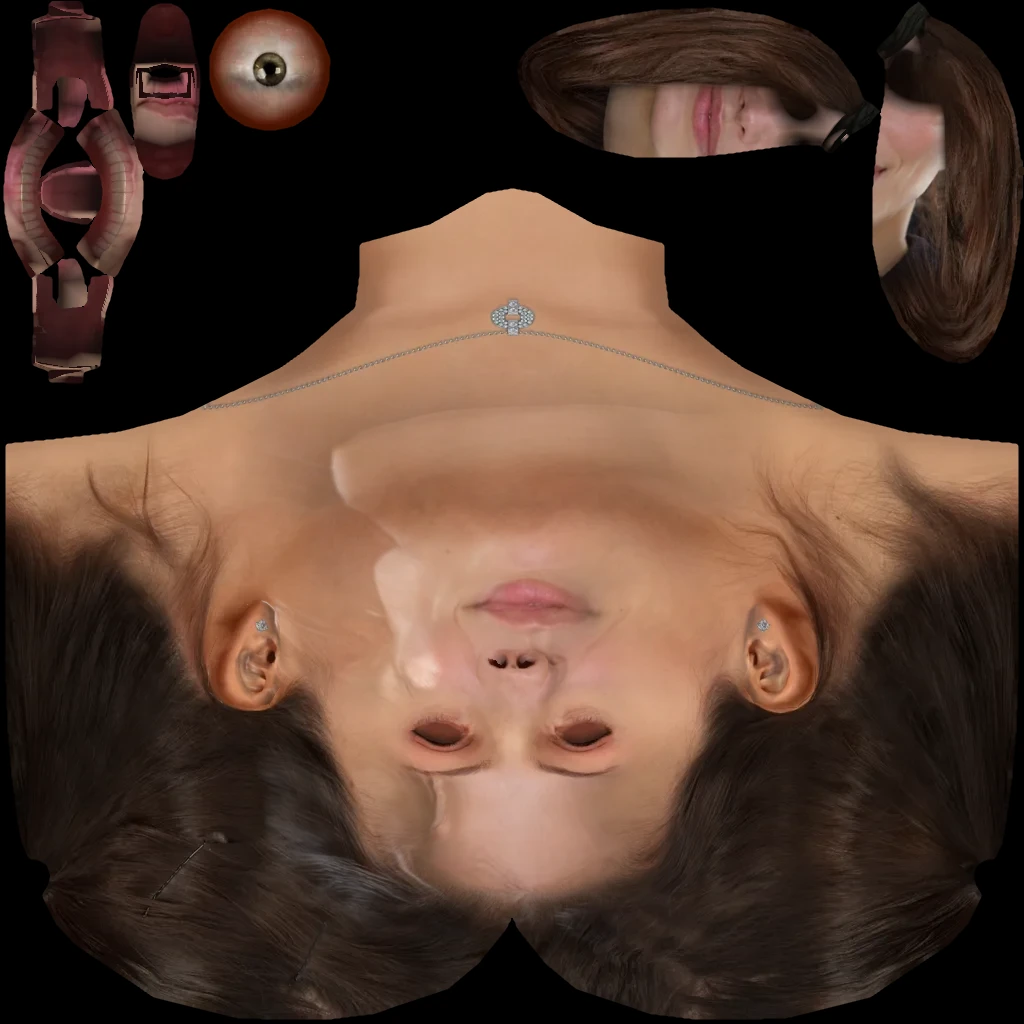
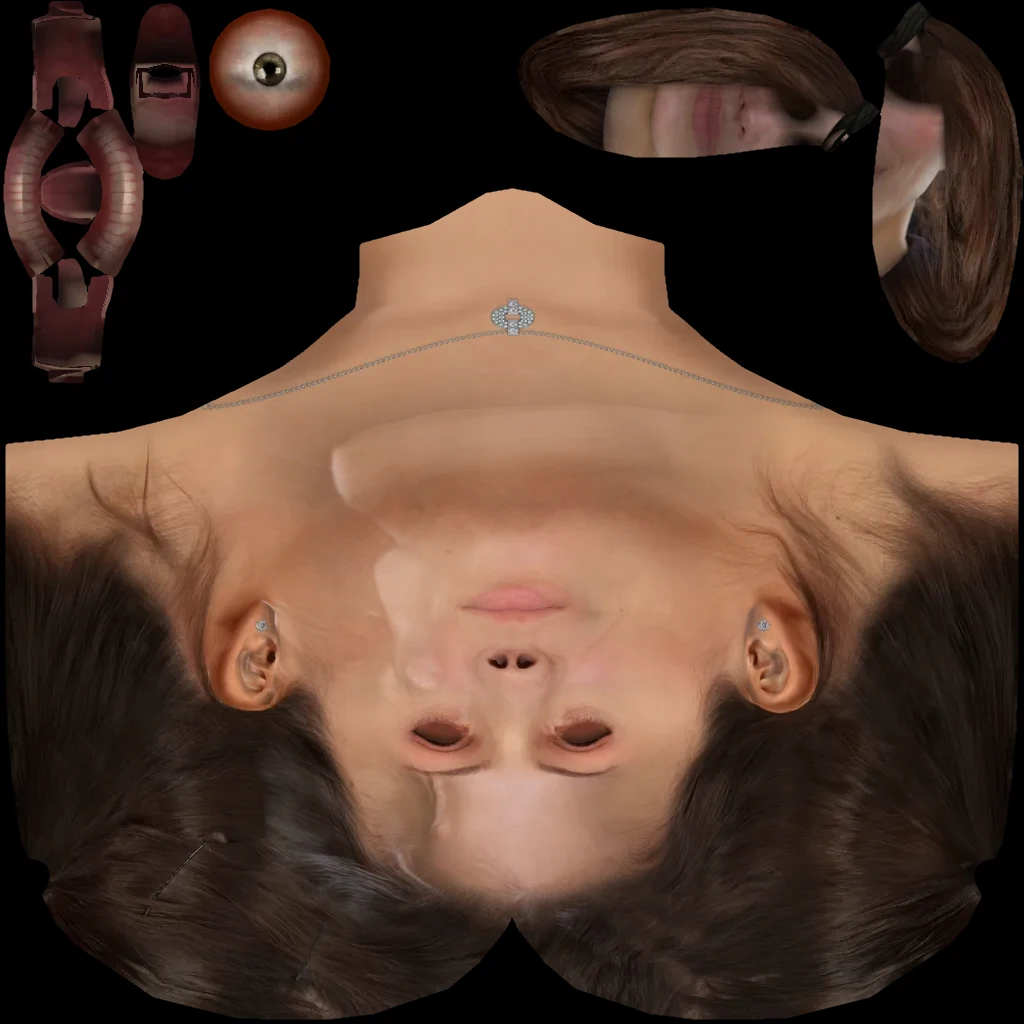
AURA v4.1: soften photo highlights and speech mouth texture

diff --git a/aura-iphone/aura-3d.bundle.js b/aura-iphone/aura-3d.bundle.js
@@ -4236,7 +4236,7 @@ class Capture extends AudioWorkletProcessor {
   }
 }
 registerProcessor("${Vl}", Capture);
-`,rc=new Map;function ac(i){let e=rc.get(i);return e||(e=fetch(i).then(t=>{if(!t.ok)throw new Error(`talking-avatar: viseme model ${i}: HTTP ${t.status}`);return t.arrayBuffer()}).then(Q8),e.catch(()=>rc.delete(i)),rc.set(i,e)),e}var Vs=class{constructor(e){S0(this,"ready");S0(this,"renderer");S0(this,"modelUrl");S0(this,"streamDelayS");S0(this,"onError");S0(this,"context",null);S0(this,"contextReady",null);S0(this,"events",[]);S0(this,"segments",null);S0(this,"stream",null);S0(this,"speech",null);S0(this,"streamToken",0);S0(this,"speechToken",0);S0(this,"status","listening");S0(this,"disposed",!1);this.modelUrl=e.modelUrl??zl,this.streamDelayS=(e.streamDelayMs??sd)/1e3,this.onError=e.onError??(t=>console.error(t)),this.renderer=new oc(e.container,()=>this.frameNow()),this.ready=this.setAvatar(e.avatarUrl??Gl.female,e.morphTargets),this.ready.catch(()=>{}),ac(this.modelUrl).catch(t=>this.onError(t))}setStatus(e){this.status=e}setAvatar(e,t){return this.renderer.load(e,t).catch(n=>{throw this.onError(n),n})}async attachStream(e){if(this.detachStream(),!e.getAudioTracks().length)throw new Error("talking-avatar: the stream has no audio track");let t=++this.streamToken,[n,s]=await Promise.all([this.audioContext(),ac(this.modelUrl)]);if(t!==this.streamToken||this.disposed)return;let r=new Audio;r.muted=!0,r.srcObject=e,r.play().catch(()=>{});let a=n.createMediaStreamSource(e),o=n.createDelay(Math.max(1,this.streamDelayS*2));o.delayTime.value=this.streamDelayS,a.connect(o).connect(n.destination);let c=new AudioWorkletNode(n,Vl,{numberOfOutputs:0,channelCount:1,channelCountMode:"explicit",channelInterpretation:"speakers"});a.connect(c);let l={source:a,delay:o,capture:c,element:r,detector:null,expectedTime:0};c.port.onmessage=({data:h})=>{if(this.stream===l)try{if(!l.detector||Math.abs(h.time-l.expectedTime)>od){l.detector?.flush();let u=(h.time+this.streamDelayS)*1e3;l.detector=new Ka(s,n.sampleRate,u,d=>this.addEvent(d))}l.detector.push(h.samples),l.expectedTime=h.time+h.samples.length/n.sampleRate}catch(u){this.onError(u)}},this.stream=l}detachStream(){this.streamToken+=1;let e=this.stream;e&&(this.stream=null,e.capture.port.onmessage=null,e.source.disconnect(),e.delay.disconnect(),e.capture.disconnect(),e.element.srcObject=null,this.events=[],this.segments=null)}async speak(e){this.stopSpeaking();let t=++this.speechToken,n;if(typeof e=="string"){let g=await fetch(e);if(!g.ok)throw new Error(`talking-avatar: ${e}: HTTP ${g.status}`);n=await g.arrayBuffer()}else n=e instanceof Blob?await e.arrayBuffer():e.slice(0);let[s,r]=await Promise.all([this.audioContext(),ac(this.modelUrl)]),a=await s.decodeAudioData(n),o=new Float32Array(a.length);for(let g=0;g<a.numberOfChannels;g+=1){let y=a.getChannelData(g);for(let m=0;m<o.length;m+=1)o[m]+=y[m]/a.numberOfChannels}let c=[],l=new Ka(r,a.sampleRate,0,g=>c.push(g)),h=Math.round(a.sampleRate*cd);for(let g=0;g<o.length;g+=h)if(l.push(o.subarray(g,g+h)),await new Promise(y=>setTimeout(y)),t!==this.speechToken||this.disposed)return;l.flush();let u=s.currentTime+rd/1e3;for(let g of c)this.addEvent({id:g.id,ms:u*1e3+g.ms});let d=s.createBufferSource();d.buffer=a,d.connect(s.destination);let f=new Promise(g=>{d.onended=()=>g()});d.start(u),this.speech=d,await f,this.speech===d&&(this.speech=null)}stopSpeaking(){this.speechToken+=1;let e=this.speech;e&&(this.speech=null,e.stop(),e.disconnect(),this.events=[],this.segments=null)}dispose(){this.disposed||(this.disposed=!0,this.stopSpeaking(),this.detachStream(),this.renderer.dispose(),this.context?.close())}async audioContext(){this.contextReady??(this.contextReady=(async()=>{let t=new AudioContext({latencyHint:"interactive"}),n=URL.createObjectURL(new Blob([ld],{type:"text/javascript"}));try{await t.audioWorklet.addModule(n)}finally{URL.revokeObjectURL(n)}return this.context=t,t})());let e=await this.contextReady;return e.state==="suspended"&&await e.resume(),e}addEvent(e){let{events:t}=this,n=t.length;for(;n>0&&t[n-1].ms>e.ms;)n-=1;t.splice(n,0,e);let s=this.heardMs()-ad,r=0;for(;r+1<t.length&&t[r+1].ms<s;)r+=1;r&&t.splice(0,r),this.segments=null}heardMs(){let{context:e}=this;if(!e)return 0;let t=e.state==="running"?e.getOutputTimestamp?.():void 0;return t?.contextTime&&t.performanceTime?t.contextTime*1e3+(performance.now()-t.performanceTime):(e.currentTime-(e.outputLatency||0))*1e3}frameNow(){if(!this.events.length)return{visemes:{},mode:this.status};let e=this.heardMs();return this.segments??(this.segments=P8(this.events)),{visemes:L8(this.segments,e),mode:F8(this.events,e)?"speaking":this.status}}};var Hl=Object.freeze({});function hd(i,e){let t=i.slice(e,e+2);if(t==="ch")return["CH",2,105];if(t==="ll")return["I",2,112];if(t==="rr")return["RR",2,106];if(t==="qu")return["kk",2,86];let n=i[e];return/[.!?¿¡;:]/.test(n)?[null,1,240]:/[,\s]/.test(n)?[null,1,86]:"pbm".includes(n)?["PP",1,96]:"fv".includes(n)?["FF",1,88]:"a".includes(n)?["aa",1,106]:n==="e"?["E",1,100]:n==="i"||n==="y"?["I",1,98]:n==="o"?["O",1,108]:n==="u"?["U",1,110]:"szx".includes(n)?["SS",1,76]:n==="r"?["RR",1,76]:"ln\xF1".includes(n)?["nn",1,76]:"ckqg".includes(n)?["kk",1,76]:n==="h"?[null,1,20]:["DD",1,76]}function Wl(i){let e=String(i||"").toLowerCase().normalize("NFD").replace(/[\u0300-\u036f]/g,""),t=[],n=0;for(let s=0;s<e.length&&t.length<2400;){let[r,a,o]=hd(e,s);t.push({viseme:r,start:n,end:n+o}),n+=o,s+=a}return t}function ql(i){let e=Math.min(1,Math.max(0,i));return e*e*(3-2*e)}function Xl(i=()=>performance.now()){let e=!1,t=[],n=0,s=null;function r(h){t=Wl(h),n=i(),s=null,e=!0}function a(h){if(!e||!h||typeof h.text!="string")return;let u=Math.max(0,Math.min(h.text.length,Number(h.charIndex)||0)),d=h.text.slice(u);d&&(t=Wl(d),n=i()-25)}function o(h){e&&Number.isFinite(Number(h))&&(s=Math.min(1,Math.max(0,Number(h))))}function c(){if(!e||!t.length)return Hl;let h=i()-n,u=t.findIndex(g=>h<g.end+65);if(u===-1)return Hl;let d={};for(let g=Math.max(0,u-1);g<=Math.min(t.length-1,u+1);g++){let y=t[g];if(!y.viseme)continue;let m=ql((h-(y.start-52))/64),p=ql((y.end+62-h)/78),M=y.viseme==="PP"||y.viseme==="FF",A=m*p*(M?.98:.77);d[y.viseme]=Math.max(d[y.viseme]||0,A)}let f=Math.max(d.PP||0,d.FF||0);if(f)for(let g of["aa","E","I","O","U"])d[g]&&(d[g]*=1-f);if(s!==null)for(let g of["aa","E","I","O","U"])d[g]&&(d[g]*=.45+.55*s);return d}function l(){e=!1,t=[],s=null}return{start:r,boundary:a,level:o,frame:c,stop:l,get active(){return e}}}var uc={clothing:"#17191d",skin:"#fff6ef",hair:"#b2a29b"};function dc(i,e){let t=i?.renderer?.model;if(!t)return!1;t.traverse(s=>{if(!s.isMesh)return;let r=a=>{if(!a?.isMeshStandardMaterial)return a;let o=a.name||"";if(!/(body|head|opacity)$/.test(o))return a;let c=a.clone();return o.endsWith("_body")?c.color.set(uc.clothing):o.endsWith("_head")?c.color.set(uc.skin):c.color.set(uc.hair),c.roughness=o.endsWith("_head")?.82:.94,c};s.material=Array.isArray(s.material)?s.material.map(r):r(s.material)}),e&&typeof document<"u"&&new kn().loadAsync(e).then(s=>{if(!t.parent||i.renderer?.model!==t){s.dispose();return}s.flipY=!1,s.colorSpace=ge,s.anisotropy=4,s.needsUpdate=!0,t.traverse(r=>{if(!r.isMesh)return;let a=Array.isArray(r.material)?r.material:[r.material];for(let o of a)o?.name?.endsWith("_head")&&(o.map=s,o.needsUpdate=!0)})}).catch(s=>console.warn("AURA: textura fotogr\xE1fica no disponible; conservando cara original",s));let n=i.renderer;return n.keyLight.intensity=3.1,n.fillLight.intensity=1.25,!0}var $l="aura.3d.enabled.v1",Ql={femenino:new URL("./assets/3d/female.glb",import.meta.url).href,masculino:new URL("./assets/3d/male.glb",import.meta.url).href},ud=new URL("./assets/3d/viseme-model.bin",import.meta.url).href,e2=new URL("./assets/3d/photo-face.webp",import.meta.url).href,t2=new URLSearchParams(location.search).get("photo")!=="off",dd=()=>window.matchMedia?.("(prefers-reduced-motion: reduce)")?.matches??!1,n2=()=>document.querySelector("[data-gender].chosen")?.dataset.gender||"femenino",i2=()=>{try{return localStorage.getItem($l)!=="off"}catch{return!0}},jl=i=>{try{localStorage.setItem($l,i?"on":"off")}catch{}},rn=Xl(),be=null,Ie=!1,Jn=!1,Ws=!1,ji=!1,Hs="ready",Xi="femenino",ut,qi,Ja,Yn,wt,Et,Kl,Wi,Jl=0;function fd(){let i=document.createElement("style");i.id="aura3dStyles",i.textContent=`
+`,rc=new Map;function ac(i){let e=rc.get(i);return e||(e=fetch(i).then(t=>{if(!t.ok)throw new Error(`talking-avatar: viseme model ${i}: HTTP ${t.status}`);return t.arrayBuffer()}).then(Q8),e.catch(()=>rc.delete(i)),rc.set(i,e)),e}var Vs=class{constructor(e){S0(this,"ready");S0(this,"renderer");S0(this,"modelUrl");S0(this,"streamDelayS");S0(this,"onError");S0(this,"context",null);S0(this,"contextReady",null);S0(this,"events",[]);S0(this,"segments",null);S0(this,"stream",null);S0(this,"speech",null);S0(this,"streamToken",0);S0(this,"speechToken",0);S0(this,"status","listening");S0(this,"disposed",!1);this.modelUrl=e.modelUrl??zl,this.streamDelayS=(e.streamDelayMs??sd)/1e3,this.onError=e.onError??(t=>console.error(t)),this.renderer=new oc(e.container,()=>this.frameNow()),this.ready=this.setAvatar(e.avatarUrl??Gl.female,e.morphTargets),this.ready.catch(()=>{}),ac(this.modelUrl).catch(t=>this.onError(t))}setStatus(e){this.status=e}setAvatar(e,t){return this.renderer.load(e,t).catch(n=>{throw this.onError(n),n})}async attachStream(e){if(this.detachStream(),!e.getAudioTracks().length)throw new Error("talking-avatar: the stream has no audio track");let t=++this.streamToken,[n,s]=await Promise.all([this.audioContext(),ac(this.modelUrl)]);if(t!==this.streamToken||this.disposed)return;let r=new Audio;r.muted=!0,r.srcObject=e,r.play().catch(()=>{});let a=n.createMediaStreamSource(e),o=n.createDelay(Math.max(1,this.streamDelayS*2));o.delayTime.value=this.streamDelayS,a.connect(o).connect(n.destination);let c=new AudioWorkletNode(n,Vl,{numberOfOutputs:0,channelCount:1,channelCountMode:"explicit",channelInterpretation:"speakers"});a.connect(c);let l={source:a,delay:o,capture:c,element:r,detector:null,expectedTime:0};c.port.onmessage=({data:h})=>{if(this.stream===l)try{if(!l.detector||Math.abs(h.time-l.expectedTime)>od){l.detector?.flush();let u=(h.time+this.streamDelayS)*1e3;l.detector=new Ka(s,n.sampleRate,u,d=>this.addEvent(d))}l.detector.push(h.samples),l.expectedTime=h.time+h.samples.length/n.sampleRate}catch(u){this.onError(u)}},this.stream=l}detachStream(){this.streamToken+=1;let e=this.stream;e&&(this.stream=null,e.capture.port.onmessage=null,e.source.disconnect(),e.delay.disconnect(),e.capture.disconnect(),e.element.srcObject=null,this.events=[],this.segments=null)}async speak(e){this.stopSpeaking();let t=++this.speechToken,n;if(typeof e=="string"){let g=await fetch(e);if(!g.ok)throw new Error(`talking-avatar: ${e}: HTTP ${g.status}`);n=await g.arrayBuffer()}else n=e instanceof Blob?await e.arrayBuffer():e.slice(0);let[s,r]=await Promise.all([this.audioContext(),ac(this.modelUrl)]),a=await s.decodeAudioData(n),o=new Float32Array(a.length);for(let g=0;g<a.numberOfChannels;g+=1){let y=a.getChannelData(g);for(let m=0;m<o.length;m+=1)o[m]+=y[m]/a.numberOfChannels}let c=[],l=new Ka(r,a.sampleRate,0,g=>c.push(g)),h=Math.round(a.sampleRate*cd);for(let g=0;g<o.length;g+=h)if(l.push(o.subarray(g,g+h)),await new Promise(y=>setTimeout(y)),t!==this.speechToken||this.disposed)return;l.flush();let u=s.currentTime+rd/1e3;for(let g of c)this.addEvent({id:g.id,ms:u*1e3+g.ms});let d=s.createBufferSource();d.buffer=a,d.connect(s.destination);let f=new Promise(g=>{d.onended=()=>g()});d.start(u),this.speech=d,await f,this.speech===d&&(this.speech=null)}stopSpeaking(){this.speechToken+=1;let e=this.speech;e&&(this.speech=null,e.stop(),e.disconnect(),this.events=[],this.segments=null)}dispose(){this.disposed||(this.disposed=!0,this.stopSpeaking(),this.detachStream(),this.renderer.dispose(),this.context?.close())}async audioContext(){this.contextReady??(this.contextReady=(async()=>{let t=new AudioContext({latencyHint:"interactive"}),n=URL.createObjectURL(new Blob([ld],{type:"text/javascript"}));try{await t.audioWorklet.addModule(n)}finally{URL.revokeObjectURL(n)}return this.context=t,t})());let e=await this.contextReady;return e.state==="suspended"&&await e.resume(),e}addEvent(e){let{events:t}=this,n=t.length;for(;n>0&&t[n-1].ms>e.ms;)n-=1;t.splice(n,0,e);let s=this.heardMs()-ad,r=0;for(;r+1<t.length&&t[r+1].ms<s;)r+=1;r&&t.splice(0,r),this.segments=null}heardMs(){let{context:e}=this;if(!e)return 0;let t=e.state==="running"?e.getOutputTimestamp?.():void 0;return t?.contextTime&&t.performanceTime?t.contextTime*1e3+(performance.now()-t.performanceTime):(e.currentTime-(e.outputLatency||0))*1e3}frameNow(){if(!this.events.length)return{visemes:{},mode:this.status};let e=this.heardMs();return this.segments??(this.segments=P8(this.events)),{visemes:L8(this.segments,e),mode:F8(this.events,e)?"speaking":this.status}}};var Hl=Object.freeze({});function hd(i,e){let t=i.slice(e,e+2);if(t==="ch")return["CH",2,105];if(t==="ll")return["I",2,112];if(t==="rr")return["RR",2,106];if(t==="qu")return["kk",2,86];let n=i[e];return/[.!?¿¡;:]/.test(n)?[null,1,240]:/[,\s]/.test(n)?[null,1,86]:"pbm".includes(n)?["PP",1,96]:"fv".includes(n)?["FF",1,88]:"a".includes(n)?["aa",1,106]:n==="e"?["E",1,100]:n==="i"||n==="y"?["I",1,98]:n==="o"?["O",1,108]:n==="u"?["U",1,110]:"szx".includes(n)?["SS",1,76]:n==="r"?["RR",1,76]:"ln\xF1".includes(n)?["nn",1,76]:"ckqg".includes(n)?["kk",1,76]:n==="h"?[null,1,20]:["DD",1,76]}function Wl(i){let e=String(i||"").toLowerCase().normalize("NFD").replace(/[\u0300-\u036f]/g,""),t=[],n=0;for(let s=0;s<e.length&&t.length<2400;){let[r,a,o]=hd(e,s);t.push({viseme:r,start:n,end:n+o}),n+=o,s+=a}return t}function ql(i){let e=Math.min(1,Math.max(0,i));return e*e*(3-2*e)}function Xl(i=()=>performance.now()){let e=!1,t=[],n=0,s=null;function r(h){t=Wl(h),n=i(),s=null,e=!0}function a(h){if(!e||!h||typeof h.text!="string")return;let u=Math.max(0,Math.min(h.text.length,Number(h.charIndex)||0)),d=h.text.slice(u);d&&(t=Wl(d),n=i()-25)}function o(h){e&&Number.isFinite(Number(h))&&(s=Math.min(1,Math.max(0,Number(h))))}function c(){if(!e||!t.length)return Hl;let h=i()-n,u=t.findIndex(g=>h<g.end+65);if(u===-1)return Hl;let d={};for(let g=Math.max(0,u-1);g<=Math.min(t.length-1,u+1);g++){let y=t[g];if(!y.viseme)continue;let m=ql((h-(y.start-52))/64),p=ql((y.end+62-h)/78),M=y.viseme==="PP"||y.viseme==="FF",A=m*p*(M?.98:.77);d[y.viseme]=Math.max(d[y.viseme]||0,A)}let f=Math.max(d.PP||0,d.FF||0);if(f)for(let g of["aa","E","I","O","U"])d[g]&&(d[g]*=1-f);if(s!==null)for(let g of["aa","E","I","O","U"])d[g]&&(d[g]*=.45+.55*s);return d}function l(){e=!1,t=[],s=null}return{start:r,boundary:a,level:o,frame:c,stop:l,get active(){return e}}}var uc={clothing:"#17191d",skin:"#fff6ef",hair:"#b2a29b"};function dc(i,e){let t=i?.renderer?.model;if(!t)return!1;t.traverse(s=>{if(!s.isMesh)return;let r=a=>{if(!a?.isMeshStandardMaterial)return a;let o=a.name||"";if(!/(body|head|opacity)$/.test(o))return a;let c=a.clone();return o.endsWith("_body")?c.color.set(uc.clothing):o.endsWith("_head")?c.color.set(uc.skin):c.color.set(uc.hair),c.roughness=o.endsWith("_head")?.82:.94,c};s.material=Array.isArray(s.material)?s.material.map(r):r(s.material)}),e&&typeof document<"u"&&new kn().loadAsync(e).then(s=>{if(!t.parent||i.renderer?.model!==t){s.dispose();return}s.flipY=!1,s.colorSpace=ge,s.anisotropy=4,s.needsUpdate=!0,t.traverse(r=>{if(!r.isMesh)return;let a=Array.isArray(r.material)?r.material:[r.material];for(let o of a)o?.name?.endsWith("_head")&&(o.map=s,o.needsUpdate=!0)})}).catch(s=>console.warn("AURA: textura fotogr\xE1fica no disponible; conservando cara original",s));let n=i.renderer;return n.keyLight.intensity=2.55,n.fillLight.intensity=1.12,!0}var $l="aura.3d.enabled.v1",Ql={femenino:new URL("./assets/3d/female.glb",import.meta.url).href,masculino:new URL("./assets/3d/male.glb",import.meta.url).href},ud=new URL("./assets/3d/viseme-model.bin",import.meta.url).href,e2=new URL("./assets/3d/photo-face.webp?v=36",import.meta.url).href,t2=new URLSearchParams(location.search).get("photo")!=="off",dd=()=>window.matchMedia?.("(prefers-reduced-motion: reduce)")?.matches??!1,n2=()=>document.querySelector("[data-gender].chosen")?.dataset.gender||"femenino",i2=()=>{try{return localStorage.getItem($l)!=="off"}catch{return!0}},jl=i=>{try{localStorage.setItem($l,i?"on":"off")}catch{}},rn=Xl(),be=null,Ie=!1,Jn=!1,Ws=!1,ji=!1,Hs="ready",Xi="femenino",ut,qi,Ja,Yn,wt,Et,Kl,Wi,Jl=0;function fd(){let i=document.createElement("style");i.id="aura3dStyles",i.textContent=`
     #v8Stage .aura3d-layer,#avatarFrame .aura3d-layer{position:absolute;inset:0;z-index:1;opacity:0;pointer-events:none;transition:opacity .36s ease;background:radial-gradient(ellipse at 50% 40%,#234a56,#07131d 75%)}
     #v8Stage.aura3d-live .aura3d-layer,#avatarFrame.aura3d-live .aura3d-layer{opacity:1}
     #v8Stage.aura3d-live>img,#v8Stage.aura3d-live>canvas.aura23-eye-overlay,#v8Stage.aura3d-live>img.aura-motion-ghost{visibility:hidden!important;animation:none!important}

diff --git a/aura-iphone/index.html b/aura-iphone/index.html
@@ -248,7 +248,7 @@ $('exportBtn').addEventListener('click',()=>{const safe={version:1,exportedAt:ne
 $('importFile').addEventListener('change',async ev=>{const file=ev.target.files?.[0];if(!file)return;try{if(file.size>200000)throw Error('Archivo demasiado grande');const raw=JSON.parse(await file.text());if(raw.version!==1||!Array.isArray(raw.memory)||!Array.isArray(raw.messages)||!raw.profile||typeof raw.profile!=='object')throw Error('Formato de copia no válido');if(!confirm('¿Reemplazar los recuerdos y el chat de este navegador con la copia?'))return;const p=raw.profile;state={...state,gender:['femenino','masculino'].includes(p.gender)?p.gender:'femenino',name:String(p.name||'AURA').slice(0,24),accent:['es-AR','es-MX','es-ES','en-US','pt-BR'].includes(p.accent)?p.accent:'es-AR',personality:['Cálida y profesional','Directa y ejecutiva','Divertida y cercana','Analítica y precisa'].includes(p.personality)?p.personality:'Cálida y profesional',rate:Math.max(.75,Math.min(1.25,Number(p.rate)||1)),autoVoice:!!p.autoVoice,autoSendVoice:!!p.autoSendVoice,modelChoice:p.modelChoice==='quality'?'quality':'light',memory:raw.memory.filter(x=>typeof x==='string').slice(-25).map(x=>x.slice(0,420)),tasks:(Array.isArray(raw.tasks)?raw.tasks:[]).filter(t=>t&&typeof t.text==='string').slice(-60).map(t=>({text:t.text.slice(0,160),done:!!t.done})),messages:raw.messages.filter(x=>x&&['user','assistant'].includes(x.role)&&typeof x.text==='string').slice(-20).map(x=>({role:x.role,text:x.text.slice(0,3000)}))};persist();drawProfile();drawChat();drawMemory();drawTasks();toast('Copia restaurada.');}catch(e){toast('No se pudo restaurar: '+String(e.message||e).slice(0,90))}finally{ev.target.value='';}});
 function updateCapabilities(){$('gpuStatus').textContent=navigator.gpu?'Detectado (sin probar modelo)':'No disponible';$('ttsStatus').textContent='speechSynthesis' in window?'Disponible':'No compatible';$('sttStatus').textContent=Rec?'Posible, según Safari':'Teclado iPhone';$('networkStatus').textContent=navigator.onLine?'Conectado':'Sin conexión';}
 window.addEventListener('online',updateCapabilities);window.addEventListener('offline',updateCapabilities);window.addEventListener('pagehide',()=>stopSpeech());
-if('serviceWorker' in navigator && location.protocol==='https:')navigator.serviceWorker.register('./sw.js?v=35').catch(err=>console.debug('SW unavailable',err));
+if('serviceWorker' in navigator && location.protocol==='https:')navigator.serviceWorker.register('./sw.js?v=36').catch(err=>console.debug('SW unavailable',err));
 drawFace();drawChat();drawMemory();drawProfile();drawTasks();updateCapabilities();setStatus('IA sin activar',false);
 })();
 </script>

diff --git a/aura-iphone/sw.js b/aura-iphone/sw.js
@@ -1,4 +1,4 @@
-const CACHE='aura-iphone-v35';
+const CACHE='aura-iphone-v36';
 self.addEventListener('install',e=>{self.skipWaiting();e.waitUntil(caches.open(CACHE).then(c=>c.addAll(['./','./index.html','./icon.svg'])))});
 self.addEventListener('activate',e=>{e.waitUntil(Promise.all([caches.keys().then(keys=>Promise.all(keys.filter(k=>k.startsWith('aura-iphone-')&&k!==CACHE).map(k=>caches.delete(k)))),self.clients.claim()]))});
 self.addEventListener('fetch',e=>{const u=new URL(e.request.url);if(e.request.method!=='GET'||u.origin!==location.origin)return;if(e.request.mode==='navigate'){e.respondWith(fetch(e.request).then(r=>{const c=r.clone();caches.open(CACHE).then(k=>k.put(e.request,c));return r}).catch(()=>caches.match(e.request).then(r=>r||caches.match('./index.html'))));return;}e.respondWith(caches.match(e.request).then(r=>r||fetch(e.request)))});

diff --git a/aura-iphone/3d-src/appearance.js b/aura-iphone/3d-src/appearance.js
@@ -57,9 +57,10 @@ export function refineFemaleLook(avatar, photoTextureUrl) {
     }).catch(error => console.warn('AURA: textura fotográfica no disponible; conservando cara original', error));
   }
 
-  // Preserve an intimate photographic portrait instead of harsh studio light.
+  // The reference photograph already contains studio highlights. Softer
+  // PBR illumination prevents re-lighting them into bright painted patches.
   const renderer = avatar.renderer;
-  renderer.keyLight.intensity = 3.1;
-  renderer.fillLight.intensity = 1.25;
+  renderer.keyLight.intensity = 2.55;
+  renderer.fillLight.intensity = 1.12;
   return true;
 }

diff --git a/aura-iphone/3d-src/main.js b/aura-iphone/3d-src/main.js
@@ -11,7 +11,7 @@ const ASSETS = {
   masculino: new URL('./assets/3d/male.glb', import.meta.url).href,
 };
 const MODEL = new URL('./assets/3d/viseme-model.bin', import.meta.url).href;
-const PHOTO_FACE = new URL('./assets/3d/photo-face.webp', import.meta.url).href;
+const PHOTO_FACE = new URL('./assets/3d/photo-face.webp?v=36', import.meta.url).href;
 // Allow a quick no-deploy comparison with the original 3D atlas (?photo=off).
 const photoReferenceEnabled = new URLSearchParams(location.search).get('photo') !== 'off';
 const prefersReduced = () => window.matchMedia?.('(prefers-reduced-motion: reduce)')?.matches ?? false;
